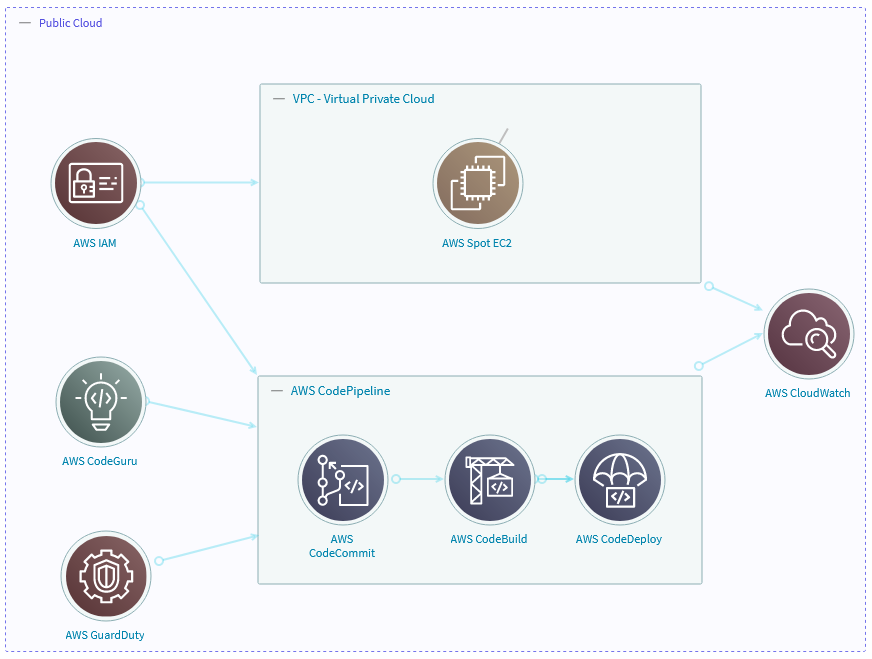
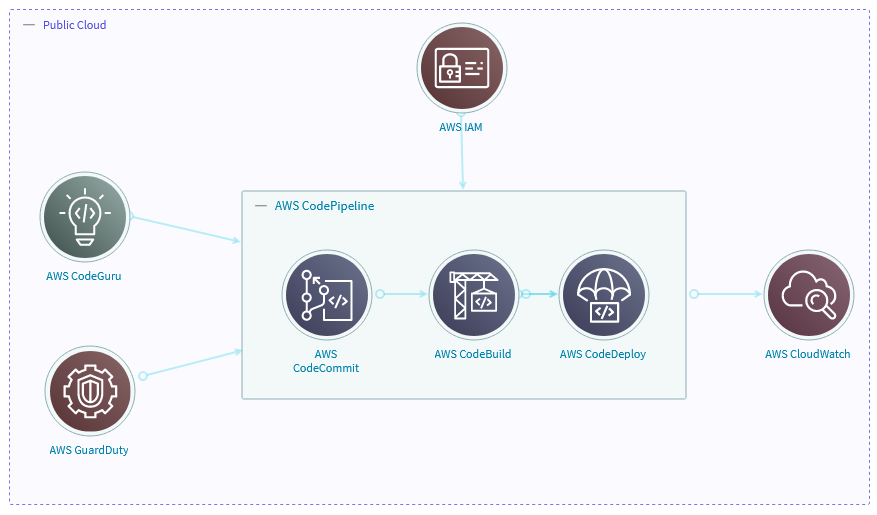
Add AWS system topology diagram to documentation

diff --git a/README.md b/README.md
@@ -93,25 +93,24 @@ To modify the experiment behavior, edit these files:
 
 ### System Topology on AWS
 
-The diagram below illustrates the high-level topology of our cloud infrastructure hosted on Amazon Web Services (AWS). The architecture is designed for scalability, high availability, and security.
+The diagram below illustrates the CI/CD-centric architecture deployed in the AWS public cloud:
 
 ![AWS System Topology](SCE_Experiment/aws-topology-diagram.png)
 
 **Description:**
 
-This cloud-based architecture integrates various AWS services to support a secure, automated, and observable CI/CD pipeline. Key components include:
+This architecture focuses on a secure and automated continuous integration and deployment pipeline using AWS services:
 
-- **AWS IAM:** Manages access and permissions for services and users across the environment.
-- **AWS GuardDuty:** Provides continuous security monitoring to detect threats.
-- **AWS CodeGuru:** Offers code quality reviews and performance recommendations.
-- **AWS CodePipeline:** Orchestrates the CI/CD workflow across:
-  - **CodeCommit:** Git-based source control.
-  - **CodeBuild:** Compiles source code and runs tests.
-  - **CodeDeploy:** Automates deployment to compute resources.
-- **AWS Spot EC2 (within a VPC):** Executes workloads in a cost-efficient compute environment.
-- **AWS CloudWatch:** Monitors system health, collects logs, and triggers alerts.
+- **AWS CodePipeline:** Central orchestration service for the CI/CD workflow.
+  - **CodeCommit:** Manages source code with a Git-based repository.
+  - **CodeBuild:** Compiles source code, runs tests, and prepares artifacts.
+  - **CodeDeploy:** Automates deployment to production or staging environments.
+- **AWS IAM:** Manages authentication and authorization across services.
+- **AWS CodeGuru:** Provides intelligent code reviews and recommendations.
+- **AWS GuardDuty:** Detects threats and anomalies for enhanced security monitoring.
+- **AWS CloudWatch:** Collects logs, metrics, and events for observability and alerting.
 
-The architecture is optimized for cost efficiency (via EC2 Spot instances), security (with IAM and GuardDuty), and automation (through CodePipeline). Monitoring is centralized in CloudWatch, ensuring visibility into system performance and operations.
+This topology emphasizes automation, security, and observability by tightly integrating AWS-native services.
 
 **1. AWS CLI Setup**  
 
